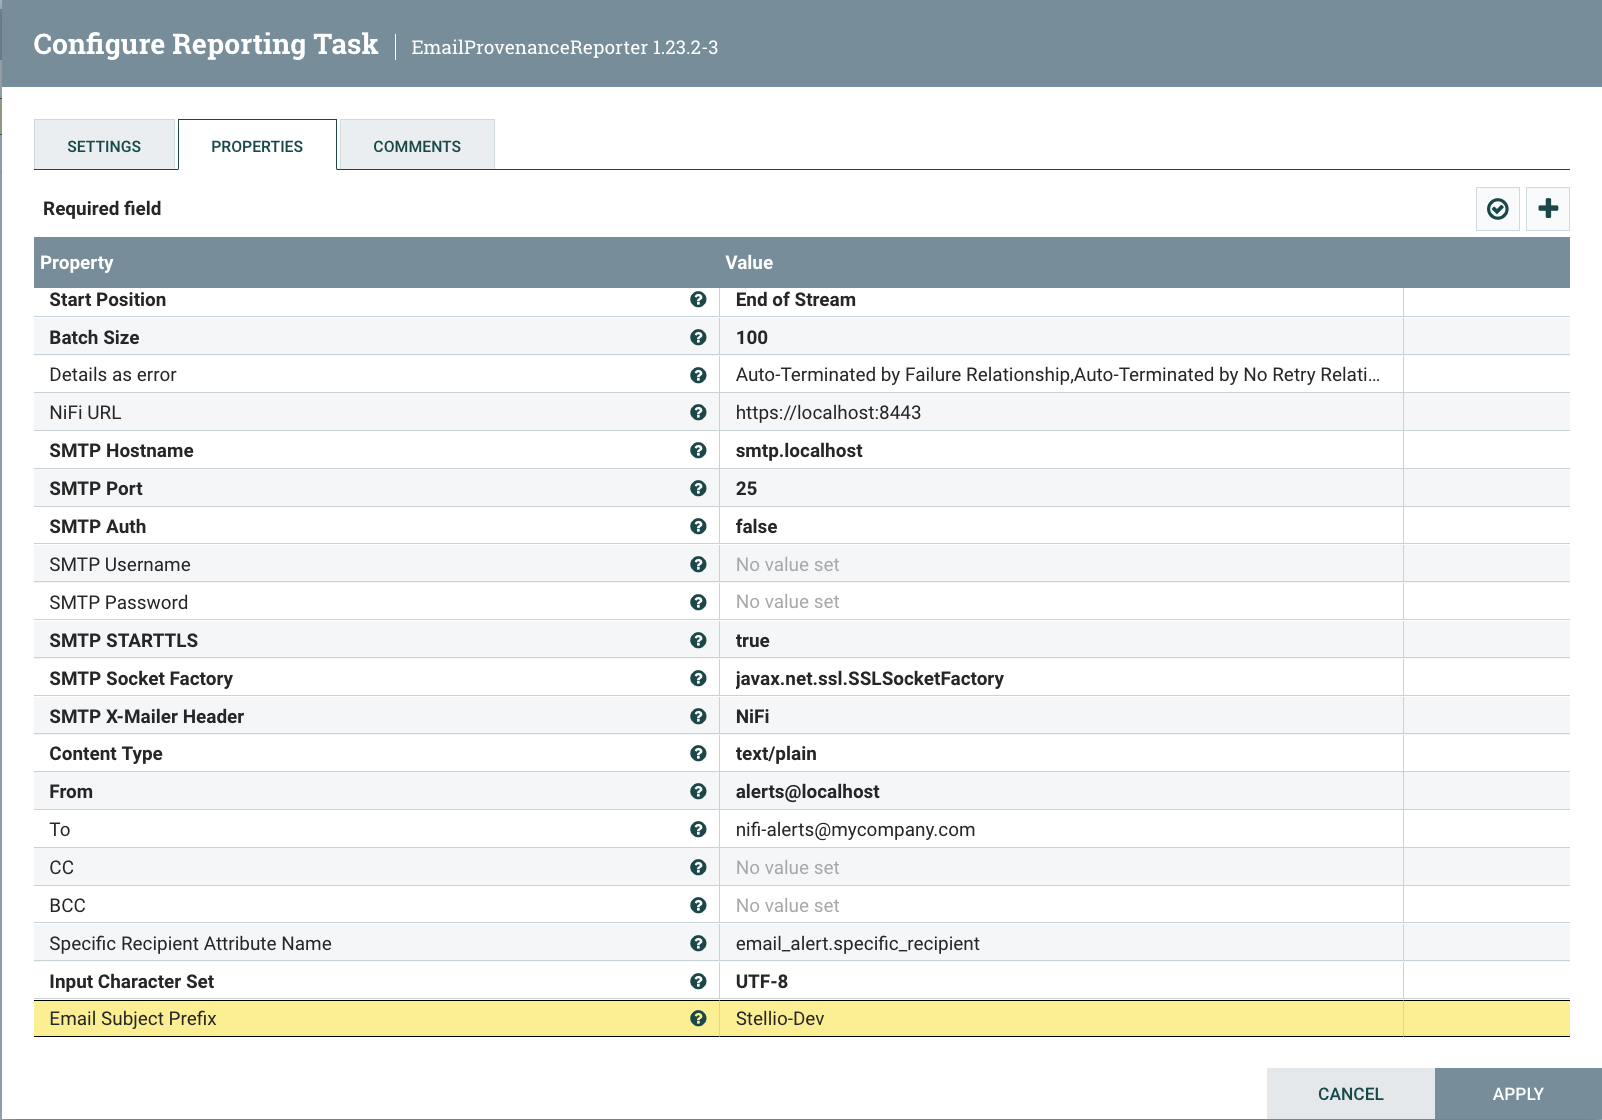
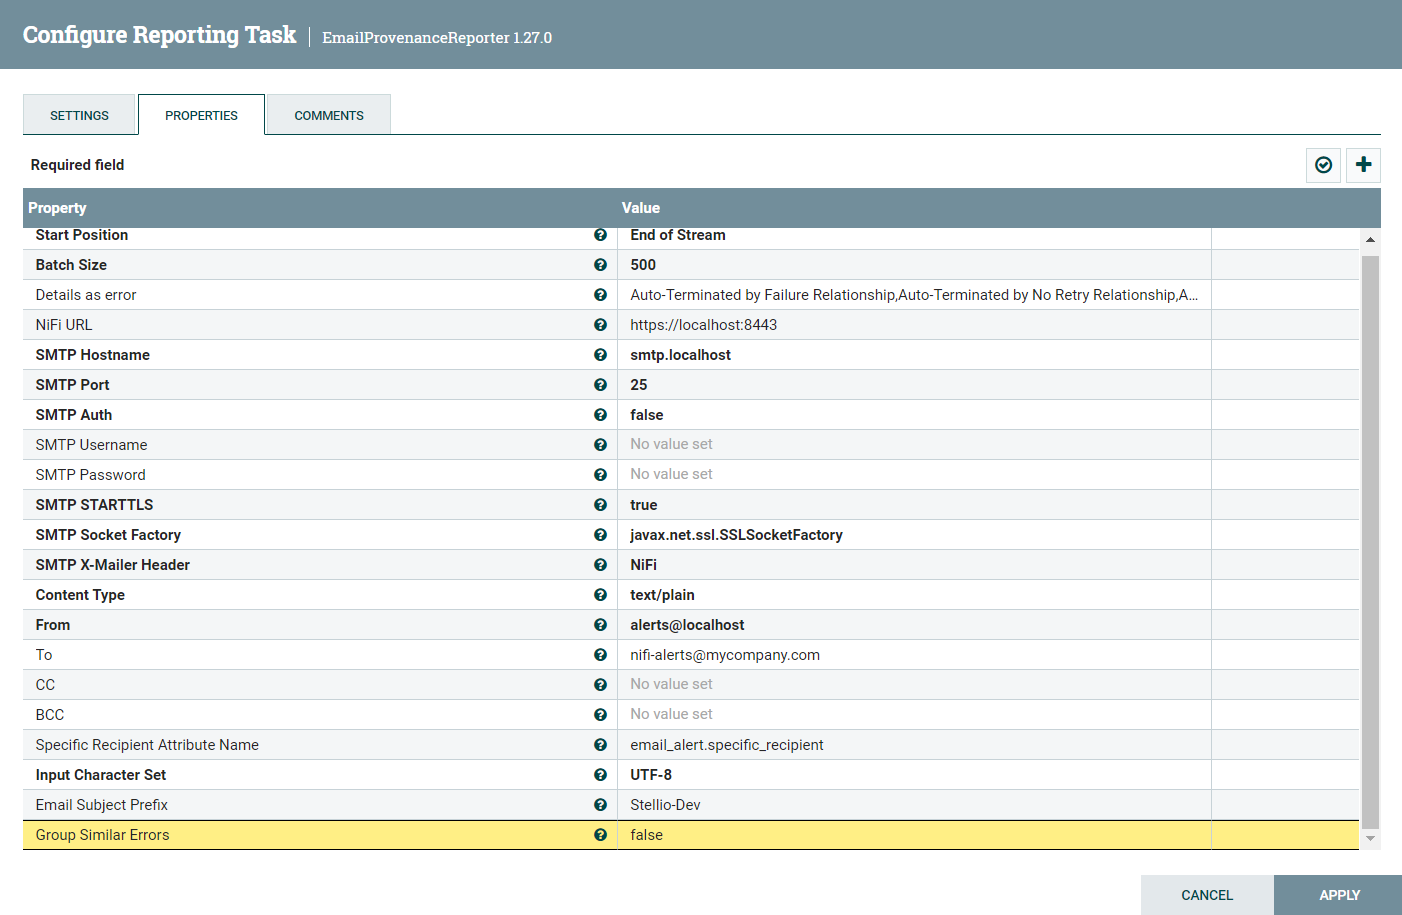
doc: Group Similar Errors property in EmailProvenanceReporter (#70)

diff --git a/README.md b/README.md
@@ -77,6 +77,8 @@ Reporting task to send provenance events considered as errors by email.
 
 * `Email Subject Prefix` is a property that contains a prefix to be added in the email subject. It can be for example the NiFi instance the error is coming from (optional).
 * `Specific Recipient Attribute Name` is a property that contains a flow file attribute name whose value will be used as an extra recipient email address when sending the email alert (optional).
+* `Group Similar Errors` is a property that specifies whether to group similar error events into a single email or not. The grouping is done by processor id and error information (event type and details).
+When set to `true` a single email with grouped errors will be sent. When set to `false` an email for each error will be sent (optional).
 
 ## Todo
 
